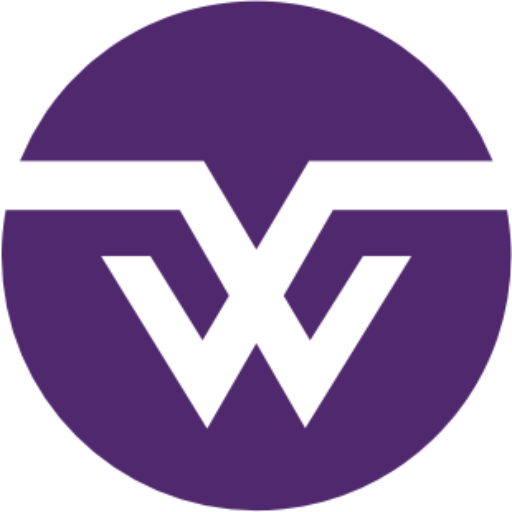
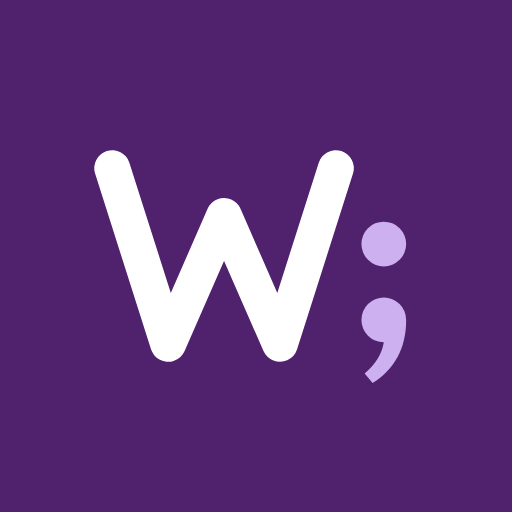
Nowy landing w identyfikacji WARNA (#1)

diff --git a/index.html b/index.html
@@ -1,31 +1,63 @@
 <!DOCTYPE html>
-<html>
+<html lang="pl">
 <head>
 <meta charset="UTF-8">
-<title>WARNA Damian Tarnacki</title>
-<link href="https://fonts.googleapis.com/css2?family=Montserrat:wght@400;700&display=swap" rel="stylesheet">
-<link rel="apple-touch-icon" sizes="180x180" href="/apple-touch-icon.png">
+<meta name="viewport" content="width=device-width, initial-scale=1.0">
+<title>WARNA · Damian Tarnacki</title>
+<meta name="description" content="WARNA to Damian Tarnacki: programowanie (WARNA codes) i podróże (WARNA travels).">
+<meta name="author" content="Damian Tarnacki">
+<meta name="theme-color" content="#50226D">
+<link rel="canonical" href="https://warna.pl/">
+<meta property="og:type" content="website">
+<meta property="og:site_name" content="WARNA">
+<meta property="og:locale" content="pl_PL">
+<meta property="og:title" content="WARNA · Damian Tarnacki">
+<meta property="og:description" content="Piszę oprogramowanie i szukam sposobów, żeby taniej latać. WARNA codes i WARNA travels.">
+<meta property="og:url" content="https://warna.pl/">
+<meta property="og:image" content="https://warna.pl/assets/img/og.png">
+<meta property="og:image:type" content="image/png">
+<meta property="og:image:width" content="1200">
+<meta property="og:image:height" content="630">
+<meta property="og:image:alt" content="Logotypy WARNA codes i WARNA travels">
+<meta name="twitter:card" content="summary_large_image">
+<link rel="icon" href="/favicon.svg" type="image/svg+xml">
 <link rel="icon" type="image/png" sizes="32x32" href="/favicon-32x32.png">
 <link rel="icon" type="image/png" sizes="16x16" href="/favicon-16x16.png">
+<link rel="apple-touch-icon" sizes="180x180" href="/apple-touch-icon.png">
 <link rel="manifest" href="/site.webmanifest">
+<link rel="preconnect" href="https://fonts.googleapis.com">
+<link rel="preconnect" href="https://fonts.gstatic.com" crossorigin>
+<link rel="stylesheet" href="https://fonts.googleapis.com/css2?family=Manrope:wght@500;600;700&display=swap">
 <link rel="stylesheet" href="assets/css/style.css">
-<meta name="viewport" content="width=device-width, initial-scale=1.0">
-<meta name="description" content="WARNA Damian Tarnacki">
-<meta name="keywords" content="WARNA, Damian Tarnacki, web developer, webdesigner, front-end developer">
-<meta name="author" content="Damian Tarnacki">
-<meta property="og:type" content="website" />
-<meta property="og:title" content="WARNA Damian Tarnacki" />
-<meta property="og:url" content="https://warna.pl" />
-<meta property="og:image" content="https://warna.pl/assets/img/warna-purple-og.jpg" />
 </head>
-
 <body>
-    <div class="container">
-        <div class="logo">
-            <img src="assets/img/warna-purple.png" alt="WARNA Damian Tarnacki" />
-        </div>
-        <footer><a href="mailto:damian@warna.pl">damian@warna.pl</a></footer>
-    </div>
+<header class="top">
+  <a class="brand" href="/" aria-label="WARNA, strona główna"><svg xmlns="http://www.w3.org/2000/svg" viewBox="0 0 441.74 100.00" role="img" aria-label="WARNA"><g transform="translate(0.00 0.00) scale(1.0417) translate(-2 -2)"><rect x="2" y="2" width="96" height="96" rx="26" fill="#50226D"/><path d="M16 28 L30 72 L44 40 L58 72 L72 28" fill="none" stroke="#FFFFFF" stroke-width="9" stroke-linecap="round" stroke-linejoin="round"/><circle cx="84" cy="47" r="5.6" fill="#CDB0F0"/><path d="M78.4 66 A5.6 5.6 0 0 1 89.6 66 C89.6 73.2 86.6 78.4 81.2 81.8 L79.2 79.4 C81.9 77.2 83.5 74.6 84 71.6 A5.6 5.6 0 0 1 78.4 66Z" fill="#CDB0F0"/></g><path d="M59.19 -5.16H55.38L66.35 -44.00H79.20L65.82 0.00H50.16L37.43 -37.55H42.42L29.63 0.00H14.02L0.59 -44.00H13.49L24.46 -5.16L20.71 -5.22L33.50 -44.00H46.35Z M97.15 -8.45V-18.25H127.48V-8.45ZM120.56 -44.00 140.57 0.00H127.60L110.82 -38.84H114.34L97.50 0.00H84.54L104.54 -44.00Z M157.81 -24.76H173.83Q176.76 -24.76 178.41 -26.11Q180.05 -27.46 180.05 -29.86Q180.05 -32.33 178.41 -33.65Q176.76 -34.97 173.83 -34.97H156.11L161.57 -40.77V0.00H149.42V-44.00H175.53Q180.58 -44.00 184.33 -42.21Q188.09 -40.42 190.20 -37.28Q192.31 -34.14 192.31 -29.86Q192.31 -25.70 190.20 -22.53Q188.09 -19.36 184.33 -17.60Q180.58 -15.84 175.53 -15.84H157.81ZM164.38 -20.59H178.05L193.83 0.00H179.75Z M244.76 -8.51 241.00 -7.74V-44.00H252.79V0.00H237.48L212.08 -36.20L215.78 -36.96V0.00H203.98V-44.00H219.71Z M274.27 -8.45V-18.25H304.60V-8.45ZM297.67 -44.00 317.68 0.00H304.71L287.94 -38.84H291.46L274.62 0.00H261.65L281.66 -44.00Z" transform="translate(124.00 72.00)" fill="currentColor"/></svg></a>
+</header>
+<main>
+  <section class="intro">
+    <h1>Damian Tarnacki</h1>
+    <p>Piszę oprogramowanie i szukam sposobów, żeby taniej latać. Tu znajdziesz jedno i drugie.</p>
+  </section>
+  <div class="lines">
+    <article class="line codes">
+      <div class="lockup"><svg xmlns="http://www.w3.org/2000/svg" viewBox="0 0 441.74 100.00" role="img" aria-label="WARNA codes"><g transform="translate(0.00 0.00) scale(1.0417) translate(-2 -2)"><rect x="2" y="2" width="96" height="96" rx="26" fill="#50226D"/><path d="M16 28 L30 72 L44 40 L58 72 L72 28" fill="none" stroke="#FFFFFF" stroke-width="9" stroke-linecap="round" stroke-linejoin="round"/><circle cx="84" cy="47" r="5.6" fill="#CDB0F0"/><path d="M78.4 66 A5.6 5.6 0 0 1 89.6 66 C89.6 73.2 86.6 78.4 81.2 81.8 L79.2 79.4 C81.9 77.2 83.5 74.6 84 71.6 A5.6 5.6 0 0 1 78.4 66Z" fill="#CDB0F0"/></g><path d="M59.19 -5.16H55.38L66.35 -44.00H79.20L65.82 0.00H50.16L37.43 -37.55H42.42L29.63 0.00H14.02L0.59 -44.00H13.49L24.46 -5.16L20.71 -5.22L33.50 -44.00H46.35Z M97.15 -8.45V-18.25H127.48V-8.45ZM120.56 -44.00 140.57 0.00H127.60L110.82 -38.84H114.34L97.50 0.00H84.54L104.54 -44.00Z M157.81 -24.76H173.83Q176.76 -24.76 178.41 -26.11Q180.05 -27.46 180.05 -29.86Q180.05 -32.33 178.41 -33.65Q176.76 -34.97 173.83 -34.97H156.11L161.57 -40.77V0.00H149.42V-44.00H175.53Q180.58 -44.00 184.33 -42.21Q188.09 -40.42 190.20 -37.28Q192.31 -34.14 192.31 -29.86Q192.31 -25.70 190.20 -22.53Q188.09 -19.36 184.33 -17.60Q180.58 -15.84 175.53 -15.84H157.81ZM164.38 -20.59H178.05L193.83 0.00H179.75Z M244.76 -8.51 241.00 -7.74V-44.00H252.79V0.00H237.48L212.08 -36.20L215.78 -36.96V0.00H203.98V-44.00H219.71Z M274.27 -8.45V-18.25H304.60V-8.45ZM297.67 -44.00 317.68 0.00H304.71L287.94 -38.84H291.46L274.62 0.00H261.65L281.66 -44.00Z" transform="translate(124.00 56.31)" fill="currentColor"/><path d="M7.53 0.38Q5.45 0.38 4.00 -0.55Q2.55 -1.48 1.78 -3.09Q1.01 -4.70 1.00 -6.75Q1.01 -8.84 1.80 -10.44Q2.59 -12.05 4.05 -12.96Q5.51 -13.88 7.56 -13.88Q9.78 -13.88 11.34 -12.78Q12.91 -11.68 13.41 -9.76L10.81 -9.01Q10.43 -10.15 9.54 -10.78Q8.66 -11.41 7.53 -11.41Q6.24 -11.41 5.41 -10.81Q4.59 -10.20 4.19 -9.15Q3.79 -8.10 3.78 -6.75Q3.79 -4.66 4.73 -3.38Q5.68 -2.09 7.53 -2.09Q8.79 -2.09 9.57 -2.67Q10.35 -3.25 10.76 -4.34L13.41 -3.71Q12.75 -1.74 11.23 -0.68Q9.70 0.38 7.53 0.38Z M29.82 0.38Q27.80 0.38 26.31 -0.54Q24.82 -1.45 24.02 -3.06Q23.21 -4.66 23.21 -6.76Q23.21 -8.88 24.04 -10.48Q24.86 -12.09 26.35 -12.98Q27.84 -13.88 29.82 -13.88Q31.85 -13.88 33.34 -12.96Q34.83 -12.05 35.64 -10.45Q36.45 -8.85 36.45 -6.76Q36.45 -4.65 35.63 -3.04Q34.81 -1.44 33.33 -0.53Q31.84 0.38 29.82 0.38ZM29.82 -2.09Q31.76 -2.09 32.72 -3.39Q33.67 -4.70 33.67 -6.76Q33.67 -8.88 32.71 -10.14Q31.74 -11.41 29.82 -11.41Q28.51 -11.41 27.66 -10.82Q26.81 -10.23 26.40 -9.18Q25.99 -8.14 25.99 -6.76Q25.99 -4.64 26.96 -3.36Q27.94 -2.09 29.82 -2.09Z M52.56 0.38Q50.68 0.38 49.31 -0.56Q47.94 -1.50 47.19 -3.12Q46.45 -4.74 46.45 -6.76Q46.45 -8.80 47.20 -10.41Q47.95 -12.01 49.33 -12.94Q50.71 -13.88 52.61 -13.88Q54.53 -13.88 55.83 -12.94Q57.14 -12.01 57.81 -10.40Q58.48 -8.79 58.48 -6.76Q58.48 -4.74 57.80 -3.12Q57.12 -1.51 55.81 -0.57Q54.50 0.38 52.56 0.38ZM52.93 -1.99Q54.21 -1.99 55.03 -2.60Q55.84 -3.21 56.21 -4.29Q56.59 -5.36 56.59 -6.76Q56.59 -8.16 56.21 -9.24Q55.83 -10.31 55.03 -10.91Q54.24 -11.51 53.01 -11.51Q51.71 -11.51 50.88 -10.88Q50.04 -10.24 49.63 -9.16Q49.23 -8.09 49.23 -6.76Q49.23 -5.43 49.63 -4.34Q50.04 -3.26 50.86 -2.62Q51.68 -1.99 52.93 -1.99ZM56.59 0.00V-9.71H56.29V-18.00H58.91V0.00Z M76.40 0.38Q74.39 0.38 72.87 -0.51Q71.35 -1.39 70.51 -2.97Q69.66 -4.55 69.66 -6.64Q69.66 -8.85 70.49 -10.48Q71.32 -12.10 72.81 -12.99Q74.30 -13.88 76.27 -13.88Q78.34 -13.88 79.79 -12.92Q81.24 -11.96 81.96 -10.20Q82.67 -8.44 82.52 -6.01H79.91V-6.96Q79.89 -9.31 79.02 -10.44Q78.15 -11.56 76.38 -11.56Q74.41 -11.56 73.42 -10.32Q72.44 -9.09 72.44 -6.75Q72.44 -4.53 73.42 -3.31Q74.41 -2.09 76.27 -2.09Q77.50 -2.09 78.39 -2.64Q79.29 -3.20 79.79 -4.24L82.35 -3.43Q81.56 -1.61 79.96 -0.62Q78.36 0.38 76.40 0.38ZM71.59 -6.01V-8.05H81.22V-6.01Z M98.49 0.36Q96.02 0.36 94.47 -0.72Q92.92 -1.81 92.57 -3.79L95.25 -4.20Q95.50 -3.15 96.41 -2.54Q97.31 -1.94 98.66 -1.94Q99.89 -1.94 100.58 -2.44Q101.27 -2.94 101.27 -3.81Q101.27 -4.33 101.03 -4.64Q100.79 -4.96 100.01 -5.25Q99.24 -5.54 97.65 -5.96Q95.91 -6.41 94.89 -6.93Q93.87 -7.45 93.44 -8.14Q93.01 -8.84 93.01 -9.83Q93.01 -11.05 93.66 -11.96Q94.31 -12.88 95.49 -13.38Q96.67 -13.88 98.26 -13.88Q99.81 -13.88 101.02 -13.39Q102.24 -12.90 102.99 -12.01Q103.74 -11.11 103.89 -9.91L101.21 -9.43Q101.07 -10.40 100.30 -10.96Q99.52 -11.53 98.29 -11.58Q97.10 -11.62 96.36 -11.18Q95.62 -10.74 95.62 -9.96Q95.62 -9.51 95.91 -9.20Q96.19 -8.89 97.00 -8.60Q97.81 -8.31 99.40 -7.91Q101.10 -7.48 102.10 -6.94Q103.10 -6.41 103.53 -5.68Q103.96 -4.95 103.96 -3.91Q103.96 -1.91 102.51 -0.78Q101.05 0.36 98.49 0.36Z" transform="translate(126.00 87.69)" class="desc" fill="#50226D"/></svg></div>
+      <p>Aplikacje webowe, front-end i narzędzia. Kod i doświadczenie zawodowe:</p>
+      <ul class="links">
+        <li><a href="https://github.com/warnaa" rel="me"><svg viewBox="0 0 24 24" aria-hidden="true"><path fill="currentColor" d="M12 .5a11.5 11.5 0 0 0-3.64 22.41c.58.1.79-.25.79-.56v-2c-3.2.7-3.88-1.37-3.88-1.37-.52-1.33-1.28-1.69-1.28-1.69-1.05-.71.08-.7.08-.7 1.16.08 1.77 1.19 1.77 1.19 1.03 1.77 2.7 1.26 3.36.96.1-.75.4-1.26.73-1.55-2.55-.29-5.24-1.28-5.24-5.69 0-1.26.45-2.28 1.19-3.09-.12-.29-.52-1.46.11-3.05 0 0 .97-.31 3.17 1.18a11 11 0 0 1 5.77 0c2.2-1.49 3.17-1.18 3.17-1.18.63 1.59.23 2.76.11 3.05.74.81 1.19 1.83 1.19 3.09 0 4.42-2.69 5.39-5.26 5.68.41.36.78 1.06.78 2.14v3.17c0 .31.21.67.8.56A11.5 11.5 0 0 0 12 .5Z"/></svg><span>GitHub</span></a></li>
+        <li><a href="https://www.linkedin.com/in/damian-tarnacki-76337441" rel="me"><svg viewBox="0 0 24 24" aria-hidden="true"><path fill="currentColor" d="M20.45 20.45h-3.56v-5.57c0-1.33-.02-3.04-1.85-3.04-1.85 0-2.14 1.45-2.14 2.94v5.67H9.35V9h3.41v1.56h.05c.48-.9 1.64-1.85 3.37-1.85 3.6 0 4.27 2.37 4.27 5.46v6.28ZM5.34 7.43a2.07 2.07 0 1 1 0-4.13 2.07 2.07 0 0 1 0 4.13ZM7.12 20.45H3.56V9h3.56v11.45ZM22.22 0H1.77C.79 0 0 .77 0 1.73v20.54C0 23.23.79 24 1.77 24h20.45c.98 0 1.78-.77 1.78-1.73V1.73C24 .77 23.2 0 22.22 0Z"/></svg><span>LinkedIn</span></a></li>
+      </ul>
+    </article>
+    <article class="line travels">
+      <div class="lockup"><svg xmlns="http://www.w3.org/2000/svg" viewBox="0 0 441.74 100.00" role="img" aria-label="WARNA travels"><g transform="translate(0.00 0.00) scale(1.0417) translate(-2 -2)"><rect x="2" y="2" width="96" height="96" rx="26" fill="#1F5F78"/><path d="M16 28 L30 72 L44 40 L58 72 L72 28" fill="none" stroke="#FFFFFF" stroke-width="9" stroke-linecap="round" stroke-linejoin="round"/><path d="M84 65.5 C81.62 63.50 77.20 54.66 77.20 48.20 A6.8 6.8 0 1 1 90.80 48.20 C90.80 54.66 86.38 63.50 84 65.5Z" fill="#9EE0EA"/><circle cx="84" cy="48.20" r="2.45" fill="#1F5F78"/><ellipse cx="84" cy="73.6" rx="5.2" ry="2.9" fill="#9EE0EA"/></g><path d="M59.19 -5.16H55.38L66.35 -44.00H79.20L65.82 0.00H50.16L37.43 -37.55H42.42L29.63 0.00H14.02L0.59 -44.00H13.49L24.46 -5.16L20.71 -5.22L33.50 -44.00H46.35Z M97.15 -8.45V-18.25H127.48V-8.45ZM120.56 -44.00 140.57 0.00H127.60L110.82 -38.84H114.34L97.50 0.00H84.54L104.54 -44.00Z M157.81 -24.76H173.83Q176.76 -24.76 178.41 -26.11Q180.05 -27.46 180.05 -29.86Q180.05 -32.33 178.41 -33.65Q176.76 -34.97 173.83 -34.97H156.11L161.57 -40.77V0.00H149.42V-44.00H175.53Q180.58 -44.00 184.33 -42.21Q188.09 -40.42 190.20 -37.28Q192.31 -34.14 192.31 -29.86Q192.31 -25.70 190.20 -22.53Q188.09 -19.36 184.33 -17.60Q180.58 -15.84 175.53 -15.84H157.81ZM164.38 -20.59H178.05L193.83 0.00H179.75Z M244.76 -8.51 241.00 -7.74V-44.00H252.79V0.00H237.48L212.08 -36.20L215.78 -36.96V0.00H203.98V-44.00H219.71Z M274.27 -8.45V-18.25H304.60V-8.45ZM297.67 -44.00 317.68 0.00H304.71L287.94 -38.84H291.46L274.62 0.00H261.65L281.66 -44.00Z" transform="translate(124.00 56.31)" fill="currentColor"/><path d="M9.47 0.00Q8.20 0.25 6.98 0.21Q5.75 0.18 4.79 -0.26Q3.83 -0.70 3.34 -1.64Q2.90 -2.48 2.87 -3.34Q2.84 -4.21 2.84 -5.31V-17.25H5.46V-5.44Q5.46 -4.62 5.48 -4.03Q5.50 -3.43 5.74 -3.01Q6.19 -2.24 7.17 -2.13Q8.15 -2.02 9.47 -2.21ZM0.25 -11.40V-13.50H9.47V-11.40Z M20.31 0.00V-13.50H22.64V-10.23L22.31 -10.65Q22.56 -11.30 22.96 -11.84Q23.36 -12.39 23.89 -12.74Q24.40 -13.11 25.03 -13.32Q25.66 -13.53 26.33 -13.57Q26.99 -13.61 27.60 -13.50V-11.05Q26.94 -11.23 26.13 -11.15Q25.32 -11.08 24.65 -10.64Q24.01 -10.23 23.64 -9.64Q23.27 -9.05 23.11 -8.33Q22.95 -7.61 22.95 -6.81V0.00Z M41.79 0.38Q40.29 0.38 39.28 -0.18Q38.26 -0.74 37.74 -1.66Q37.23 -2.58 37.23 -3.68Q37.23 -4.70 37.59 -5.47Q37.95 -6.25 38.66 -6.79Q39.38 -7.34 40.41 -7.68Q41.31 -7.94 42.45 -8.14Q43.59 -8.34 44.84 -8.51Q46.10 -8.69 47.34 -8.86L46.39 -8.34Q46.41 -9.93 45.72 -10.69Q45.03 -11.46 43.34 -11.46Q42.28 -11.46 41.39 -10.97Q40.50 -10.48 40.15 -9.34L37.71 -10.09Q38.21 -11.83 39.62 -12.85Q41.03 -13.88 43.36 -13.88Q45.18 -13.88 46.52 -13.26Q47.86 -12.64 48.49 -11.30Q48.81 -10.64 48.89 -9.90Q48.96 -9.16 48.96 -8.31V0.00H46.65V-3.09L47.10 -2.69Q46.26 -1.14 44.97 -0.38Q43.68 0.38 41.79 0.38ZM42.25 -1.76Q43.36 -1.76 44.16 -2.16Q44.96 -2.55 45.45 -3.16Q45.94 -3.78 46.09 -4.44Q46.30 -5.04 46.33 -5.79Q46.36 -6.54 46.36 -6.99L47.21 -6.68Q45.98 -6.49 44.96 -6.34Q43.95 -6.19 43.13 -6.04Q42.31 -5.90 41.68 -5.70Q41.14 -5.51 40.72 -5.25Q40.30 -4.99 40.06 -4.61Q39.81 -4.24 39.81 -3.70Q39.81 -3.18 40.08 -2.73Q40.34 -2.29 40.88 -2.03Q41.41 -1.76 42.25 -1.76Z M63.86 0.00 58.96 -13.50H61.60L65.19 -3.28L68.78 -13.50H71.41L66.51 0.00Z M87.65 0.38Q85.64 0.38 84.12 -0.51Q82.60 -1.39 81.76 -2.97Q80.91 -4.55 80.91 -6.64Q80.91 -8.85 81.74 -10.48Q82.58 -12.10 84.06 -12.99Q85.55 -13.88 87.53 -13.88Q89.59 -13.88 91.04 -12.92Q92.49 -11.96 93.21 -10.20Q93.93 -8.44 93.78 -6.01H91.16V-6.96Q91.14 -9.31 90.27 -10.44Q89.40 -11.56 87.63 -11.56Q85.66 -11.56 84.68 -10.32Q83.69 -9.09 83.69 -6.75Q83.69 -4.53 84.68 -3.31Q85.66 -2.09 87.53 -2.09Q88.75 -2.09 89.64 -2.64Q90.54 -3.20 91.04 -4.24L93.60 -3.43Q92.81 -1.61 91.21 -0.62Q89.61 0.38 87.65 0.38ZM82.84 -6.01V-8.05H92.48V-6.01Z M104.83 0.00V-18.38H107.44V0.00Z M124.35 0.36Q121.89 0.36 120.34 -0.72Q118.79 -1.81 118.44 -3.79L121.11 -4.20Q121.36 -3.15 122.27 -2.54Q123.18 -1.94 124.53 -1.94Q125.75 -1.94 126.44 -2.44Q127.14 -2.94 127.14 -3.81Q127.14 -4.33 126.89 -4.64Q126.65 -4.96 125.88 -5.25Q125.10 -5.54 123.51 -5.96Q121.78 -6.41 120.76 -6.93Q119.74 -7.45 119.31 -8.14Q118.88 -8.84 118.88 -9.83Q118.88 -11.05 119.53 -11.96Q120.18 -12.88 121.36 -13.38Q122.54 -13.88 124.13 -13.88Q125.68 -13.88 126.89 -13.39Q128.10 -12.90 128.85 -12.01Q129.60 -11.11 129.75 -9.91L127.08 -9.43Q126.94 -10.40 126.16 -10.96Q125.39 -11.53 124.15 -11.58Q122.96 -11.62 122.23 -11.18Q121.49 -10.74 121.49 -9.96Q121.49 -9.51 121.77 -9.20Q122.05 -8.89 122.86 -8.60Q123.68 -8.31 125.26 -7.91Q126.96 -7.48 127.96 -6.94Q128.96 -6.41 129.39 -5.68Q129.83 -4.95 129.83 -3.91Q129.83 -1.91 128.37 -0.78Q126.91 0.36 124.35 0.36Z" transform="translate(126.00 87.69)" class="desc" fill="#1F5F78"/></svg></div>
+      <p>Ebook o tym, jak znajdować tańsze loty.</p>
+      <ul class="links">
+        <li><span class="soon" aria-disabled="true"><span>Zobacz ebooka (wkrótce)</span></span></li>
+        <!-- po publikacji ebooka: <li><a class="cta" href="/travels/tansze-loty/"><span>Zobacz ebooka</span><svg viewBox="0 0 24 24" aria-hidden="true"><path d="M5 12h13m-5-6 6 6-6 6" fill="none" stroke="currentColor" stroke-width="2.2" stroke-linecap="round" stroke-linejoin="round"/></svg></a></li> -->
+      </ul>
+    </article>
+  </div>
+</main>
+<footer><div class="foot"><a href="mailto:damian@warna.pl">damian@warna.pl</a></div></footer>
 </body>
-
 </html>

diff --git a/assets/css/style.css b/assets/css/style.css
@@ -1,37 +1,134 @@
+/* WARNA: kolory z identyfikacji b-v3, kroje Unbounded (w SVG jako krzywe) + Manrope */
+:root {
+    --bg: #F6F4F8;
+    --paper: #FFFFFF;
+    --ink: #1D1424;
+    --muted: #6B6175;
+    --line: #E3DDE8;
+    --codes: #50226D;
+    --codes-soft: #F1EAF7;
+    --travels: #1F5F78;
+    --travels-soft: #E6F3F6;
+    --body: "Manrope", system-ui, -apple-system, "Segoe UI", sans-serif;
+    color-scheme: light;
+}
+
+@media (prefers-color-scheme: dark) {
+    :root {
+        --bg: #141018;
+        --paper: #1E1824;
+        --ink: #F1ECF5;
+        --muted: #A79DB1;
+        --line: #2F2737;
+        --codes: #CDB0F0;
+        --codes-soft: #261C30;
+        --travels: #9EE0EA;
+        --travels-soft: #16252B;
+        color-scheme: dark;
+    }
+}
+
+* { box-sizing: border-box; }
+
 body {
-    font-family: 'Montserrat', sans-serif;
     margin: 0;
-}
-
-.container {
+    min-height: 100vh;
     display: flex;
-    align-items: center;
     flex-direction: column;
-    height: 100vh;
+    background: var(--bg);
+    color: var(--ink);
+    font-family: var(--body);
+    font-size: 17px;
+    line-height: 1.6;
 }
 
-.logo {
-    flex: 1;
-    display: flex;
-    align-items: center;
-}
+svg { display: block; }
 
-.container .logo > img {
-    max-width: 400px;
-}
-
-footer {
-    background: #555b6e;
-    line-height: 4rem;
-    text-align: center;
+.top, main, footer {
     width: 100%;
+    max-width: 1040px;
+    margin: 0 auto;
+    padding-inline: 24px;
 }
 
-footer a {
-    color: #efefef;
+.top { padding-block: 32px 0; }
+.brand { display: inline-block; color: var(--ink); }
+.brand svg { height: 44px; width: auto; }
+
+main { flex: 1; padding-block: 72px 64px; }
+
+.intro { max-width: 40rem; margin-bottom: 48px; }
+.intro h1 {
+    margin: 0 0 8px;
+    font-size: clamp(28px, 5vw, 40px);
+    line-height: 1.15;
+    font-weight: 700;
+    letter-spacing: -0.01em;
+}
+.intro p { margin: 0; color: var(--muted); font-size: 19px; }
+
+.lines {
+    display: grid;
+    grid-template-columns: repeat(auto-fit, minmax(300px, 1fr));
+    gap: 20px;
+}
+
+.line {
+    --accent: var(--codes);
+    --soft: var(--codes-soft);
+    display: flex;
+    flex-direction: column;
+    gap: 20px;
+    padding: 32px;
+    background: var(--paper);
+    border: 1px solid var(--line);
+    border-top: 4px solid var(--accent);
+    border-radius: 10px;
+}
+.line.travels { --accent: var(--travels); --soft: var(--travels-soft); }
+
+.lockup { color: var(--ink); }
+.lockup svg { height: 64px; width: auto; max-width: 100%; }
+.lockup .desc { fill: var(--accent); }
+
+.line p { margin: 0; color: var(--muted); flex: 1; }
+
+.links {
+    list-style: none;
+    margin: 0;
+    padding: 0;
+    display: flex;
+    flex-wrap: wrap;
+    gap: 10px;
+}
+
+.links a, .links .soon {
+    display: inline-flex;
+    align-items: center;
+    gap: 10px;
+    padding: 10px 18px;
+    border-radius: 999px;
+    background: var(--soft);
+    color: var(--accent);
+    font-weight: 700;
     text-decoration: none;
+    transition: background .15s, color .15s;
 }
+.links a svg { width: 18px; height: 18px; }
+.links a:hover, .links a:focus-visible { background: var(--accent); color: var(--paper); }
+.links a:focus-visible { outline: 2px solid var(--accent); outline-offset: 3px; }
+.links a.cta svg { transition: transform .15s; }
+.links a.cta:hover svg { transform: translateX(3px); }
+.links .soon { background: transparent; border: 1.5px dashed var(--accent); color: var(--muted); cursor: default; }
 
-footer a:hover {
-    color: #ffbd00;
+footer { font-size: 15px; }
+.foot { padding-block: 24px 40px; border-top: 1px solid var(--line); }
+footer a { color: var(--muted); text-decoration: none; }
+footer a:hover { color: var(--ink); }
+
+@media (max-width: 560px) {
+    .top, main, footer { padding-inline: 16px; }
+    main { padding-block: 48px 40px; }
+    .line { padding: 24px; }
+    .lockup svg { height: 52px; }
 }
